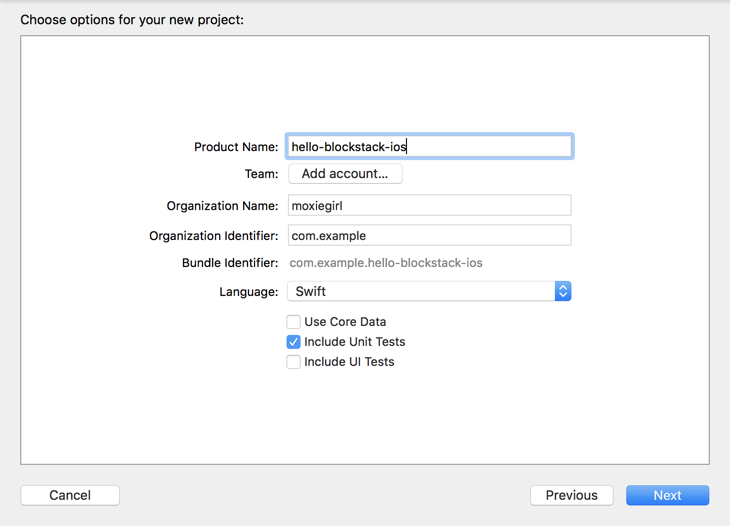
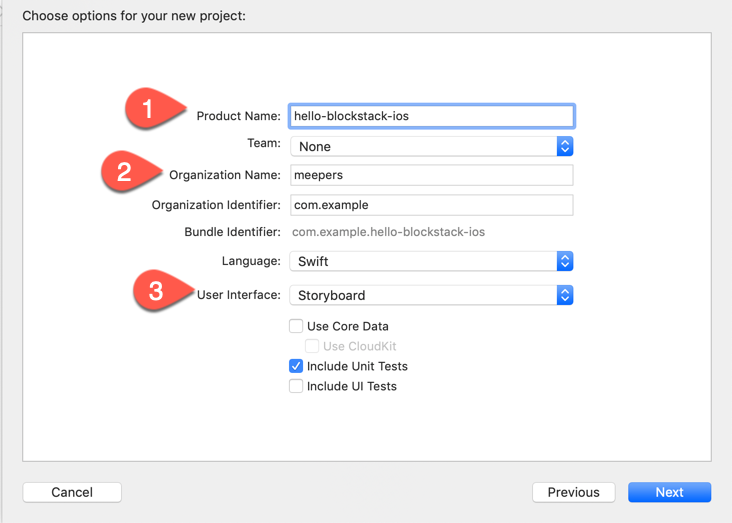
Testing the iOS tutorial

diff --git a/_ios/tutorial.md b/_ios/tutorial.md
@@ -12,7 +12,7 @@ Blockstack's iOS SDK using the following content:
 * TOC
 {:toc}
 
-This tutorial was extensively tested using Xcode Version 9.3 (9E145) on a MacBook Pro
+This tutorial was extensively tested using Xcode Version 11.2 (11B52) on a MacBook Pro
 running Mojave 10.14. If your environment is different, you may encounter
 slight or even major discrepancies when performing the procedures in this
 tutorial. Please [join the Blockstack community Slack](https://slofile.com/slack/blockstack) and post questions or comments to
@@ -56,7 +56,7 @@ development environment on your workstation, you can use that and skip this
 step. However, you may need to adjust the remaining instructions for your
 environment.
 
-Follow the installation instructions to [download and XCode](https://developer.apple.com/xcode/) for your operating system.
+Follow the installation instructions to [download and install XCode](https://developer.apple.com/xcode/) for your operating system.
 Depending on your network connection, this can take between 15-30 minutes.
 
 ### Do you have Node.js?
@@ -86,13 +86,13 @@ you have installed CocoaPods.
 
 ```bash
 $ pod --version
-1.6.0.beta.2
+1.8.1
 ```
 
 If you don't have the CocoaPods beta version, install it:
 
 ```bash
-sudo gem install cocoapods -v 1.6.0.beta.2
+sudo gem install cocoapods -v 1.8.1
 ```
 
 ## Build the Blockstack hello-world
@@ -171,7 +171,7 @@ In this section, you build an initial React.js application called
 5. Navigate to `http://localhost:8080` with your browser to display the
    application.
 
-   ![](images/blockstack-signin.png)
+   ![]({{ site.baseurl }}/browser/images/initial-app.png)
 
    This local instances is for testing your applications only.
 
@@ -179,7 +179,7 @@ In this section, you build an initial React.js application called
 
    The system displays a prompt allowing you to create a new Blockstack ID or restore an existing one.
 
-    ![](images/create-restore.png)
+    ![]({{ site.baseurl }}/browser/images/login-choice.png)
 
 7. Follow the prompts appropriate to your situation.
 
@@ -187,8 +187,9 @@ In this section, you build an initial React.js application called
     being nameless, ignore it. At this point you have only a single application
     on your test server.  So, you should see this single application, with your
     own `blockstack.id` display name, once you are signed in:
+    
+    ![]({{ site.baseurl }}/browser/images/hello-authd.png)
 
-    ![](images/running-app.png)
 
 
 ### Add a redirect end point to your application
@@ -252,12 +253,12 @@ application directory (`hello-blockstack`).
 
 ## Build the hello-blockstack-ios
 
-Now, you build an iOS application that can access and run your Blockstack web
+Now, you build an iOS application that can work with your Blockstack web
 application on a mobile device.
 
 ### Create an XCode Project
 
-This tutorial uses XCode 9.3, you can use another version but be aware that some
+This tutorial uses XCode 11.1, you can use another version but be aware that some
 menu items and therefore these procedures may be differœent on your version.
 
 1. Launch the XCode interface.
@@ -267,7 +268,22 @@ menu items and therefore these procedures may be differœent on your version.
 
    ![](images/single-view-app.png)
 
-5. **Choose options for your new project** for your project.
+5. On the **Choose options for your new project** dialog, set the following:
+
+    <table class="uk-table uk-table-small">
+    <tr>
+      <th>Product Name</th>
+      <td><code>hello-blockstack-ios</code></td>
+    </tr>
+    <tr>
+      <th>Organization Name</th>
+      <td><code><i>USERNAME</i></code></td>
+    </tr>
+    <tr>
+      <th>User Interface</th>
+      <td>Storyboard</td>
+    </tr>
+    </table>
 
 	 ![](images/choose-new-options.png)
 
@@ -275,9 +291,7 @@ menu items and therefore these procedures may be differœent on your version.
 
    The system prompts you for a location to store your code.
 
-7. Save your project in your `hello-blockstack` directory.
-
-   When you are done, you will have a `hello-blockstack/hello-blockstack-ios` subdirectory.
+7. Save your project in your `hello-blockstack-ios` directory.
 
 8. Close XCode.
 
@@ -290,7 +304,7 @@ Create a target section by writing target `$TARGET_NAME do` and an `end` a few
 lines after.
 
 1. Open a terminal window on your workstation.
-2. Navigate to and change directory into the root of your project directory.
+2. Change directory into your new project directory where your `hello-blockstack-ios.xcodeproj` file was created.
 
 	 ```swift
 	 $ cd hello-blockstack-ios
@@ -328,15 +342,15 @@ lines after.
 
 ### Install Blockstack SDK and open the pod project
 
-1. Close your new XCode project.
-2. Change to the root of your `hello-blockstack-ios` project.
-3. Initialize the project with Cocoapods.
+1. Close your new XCode project if you haven't already.
+2. In terminal, make sure it is open to the root of your `hello-blockstack-ios` project.
+3. Initialize the project with Cocoapods via the `pod install` command.
 
 	 ```bash
 	 $ pod install
-	 Analyzing dependencies
+     Analyzing dependencies
      Downloading dependencies
-     Installing Blockstack (0.7.2)
+     Installing Blockstack (1.0.1)
      Installing CryptoSwift (0.15.0)
      Installing PromisesObjC (1.2.8)
      Installing PromisesSwift (1.2.8)
@@ -370,13 +384,13 @@ lines after.
 	 project title. If you see the warning, continue to step 7. Otherwise, go to the next section.
 
 7. Click the signal to reveal the warning.
-8. Click **Update to recommended settings**.
+8. Click **Next**.
 
 	 ![](images/indicator.png)
 
-9. Choose **Perform Changes** and **Continue** when prompted.
+9. Select all the targets and press **Next** and **Continue** when prompted.
 
-	 The indicator disappears.
+	 Make sure you have no errors; warnings are acceptable to continue.
 
 ### Choose a custom protocol handler
 
@@ -386,14 +400,14 @@ the user back to your iOS app. In this example, you use `myblockstackapp://`.
 
 1. Open the `.xcworkspace` file in XCode if it isn't open already.
 2. Select the top node of your project.
-1. Select the **Info** tab in XCode.
-2. Scroll to **URL Types** and press **+** (plus) sign.
-3. Enter an **Identifier** and **URL Schemes** value.
+3. Select the **Info** tab in XCode.
+4. Scroll to **URL Types** and press **+** (plus) sign.
+5. Enter an **Identifier** and **URL Schemes** value.
 
    | **Identifier** | `MyBlockstackApp` |
    | **URL Schemes** | `myblockstackapp` |
 
-4. Set the **Role** to **Editor**.
+6. Set the **Role** to **Editor**.
 
    When you are done the **URL Types** appears as follows:
 
@@ -479,14 +493,14 @@ All iOS applications require a splash page.
 
 ### Update the Main.storyboard
 
-Rather than have you build up your own UI, this section has you copy and paste a layout into the XML file source code for the **Main.storyboard** file.
+Rather than have you build up your own UI in the interface builder, this section has you copy and paste a layout into the XML file source code for the **Main.storyboard** file.
 
 1.  Select the `Main.storyboard` file.
 2.  Choose **Open As > Source Code**
 
-    The `blockstack-example/blockstack-example/Base.lproj/Main.storyboard` file
-    defines the graphical elements. Some elements are required before you can
-    functionality to your  code.
+    The `hello-blockstack-ios/Base.lproj/Main.storyboard` file
+    defines the graphical elements, and their functionality will be defined in 
+    a respective `.swift` file.
 
 3. Within the `<viewController>`  element, replace the existing `<view>` subelement with the following:
 
@@ -532,6 +546,14 @@ Rather than have you build up your own UI, this section has you copy and paste a
         <viewLayoutGuide key="safeArea" id="6Tk-OE-BBY"/>
     </view>
 	 ```
+4. Select the Main.storyboard and choose **Open as  > Interface Builder - Storyboard**.
+
+   ![](images/main-storyboard.png)
+
+   You should see the following:
+
+   ![](images/new-storyboard.png)
+
 
 ### Add the UI variables to the ViewController file.
 
@@ -539,27 +561,44 @@ In this section, you edit the `ViewController.swift` file using the storyboard a
 
 1. Select the **Main.storyboard** and choose **Open As > Interface Builder - storyboard**.
 
-	 ![](images/main-storyboard.png)
+2. With the interface builder open, choose **Editor > Assistant** to edit the `ViewController.swift` file.
 
-2. With the interface builder open, display the `ViewController.swift` file in the right panel.
+   ![](images/view-editors.png)
 
-   ![](images/view-editors.gif)
+3. In the storyboard, select the **Sign into Blockstack** button.
 
-4. In the storyboard, select the **Sign into Blockstack** button.
-
-5. Control-drag from the button to the code display in the editor on the right, stopping the drag at the line below controller's opening statement.
+4. Control-drag from the button to the code display in the editor on the right, stopping the drag at the line below controller's `viewDidLoad()` statement.
 
    ![](images/add-action.gif)
 
-6. Repeat this process with the storyboard's purple **hello-blockstack-ios** label.
+5. Set the **Connection** to `Outlet`.
+6. Name the new section `signinButton`.
 
-    When you are done, your 'ViewController' file contains the following variables:
+   ![](images/signinbutton.png)
+
+7. Press **Connect**.
+8. Repeat with purple **hello-blockstack-ios** label, name it `nameLabel.
+
+9. Add an import statement for the `Blockstack` and another for the `SafariServices` module.
+
+    When you are done, your `ViewController.swift` file contains the following:
 
     ```swift
+    import UIKit
+    import Blockstack
+    import SafariServices
+
     class ViewController: UIViewController {
 
-    @IBOutlet var nameLabel: UILabel!
-    @IBOutlet var signInButton: UIButton!
+        override func viewDidLoad() {
+            super.viewDidLoad()
+            // Do any additional setup after loading the view.
+        }
+
+            @IBOutlet weak var nameLabel: UILabel!
+            @IBOutlet var signinButton: UIButton!
+
+    }
     ```
 
     And XCode has added two outlines to the `Main.storyboard` source.
@@ -567,7 +606,7 @@ In this section, you edit the `ViewController.swift` file using the storyboard a
     ```xml
     <connections>
     <outlet property="nameLabel" destination="9eE-ZS-LU9" id="Ahv-Te-ZZo"/>
-    <outlet property="signInButton" destination="Lfp-KX-BDb" id="yef-Jj-uPt"/>
+    <outlet property="signinButton" destination="Lfp-KX-BDb" id="yef-Jj-uPt"/>
     </connections>
     ```
 
@@ -610,11 +649,11 @@ this application in your mobile add for now. In XCode, do the following;
                let name = retrievedUserData?.profile?.name ?? "Nameless Person"
                self.nameLabel?.text = "Hello, \(name)"
                self.nameLabel?.isHidden = false
-               self.signInButton?.setTitle("Sign Out", for: .normal)
+               self.signinButton?.setTitle("Sign Out", for: .normal)
                print("UI update SIGNED_IN")
            } else {
                self.nameLabel?.text = "hello-blockstack-ios"
-               self.signInButton?.setTitle("Sign into Blockstack", for: .normal)
+               self.signinButton?.setTitle("Sign into Blockstack", for: .normal)
                print("UI update SIGNED_OUT")
            }
        }
@@ -636,7 +675,7 @@ this application in your mobile add for now. In XCode, do the following;
    }
 	 ```
 
-9. Create a 'signIn()' function that handles both sign in and out.
+9. Create a `signIn()` function that handles both sign in and out.
 
    The function uses the `Blockstack.shared.signIn()` and
    `Blockstack.shared.signUserOut()` methods to sign the user into the application.
@@ -650,7 +689,7 @@ this application in your mobile add for now. In XCode, do the following;
        } else {
            print("Currently signed out so signing in.")
            // Address of deployed example web app
-           Blockstack.shared.signIn(redirectURI: "https://heuristic-brown-7a88f8.netlify.com/redirect.html",
+           Blockstack.shared.signIn(redirectURI: URL(string: "https://heuristic-brown-7a88f8.netlify.com/redirect.html")!,
                                     appDomain: URL(string: "https://heuristic-brown-7a88f8.netlify.com")!) { authResult in
                                        switch authResult {
                                        case .success(let userData):
